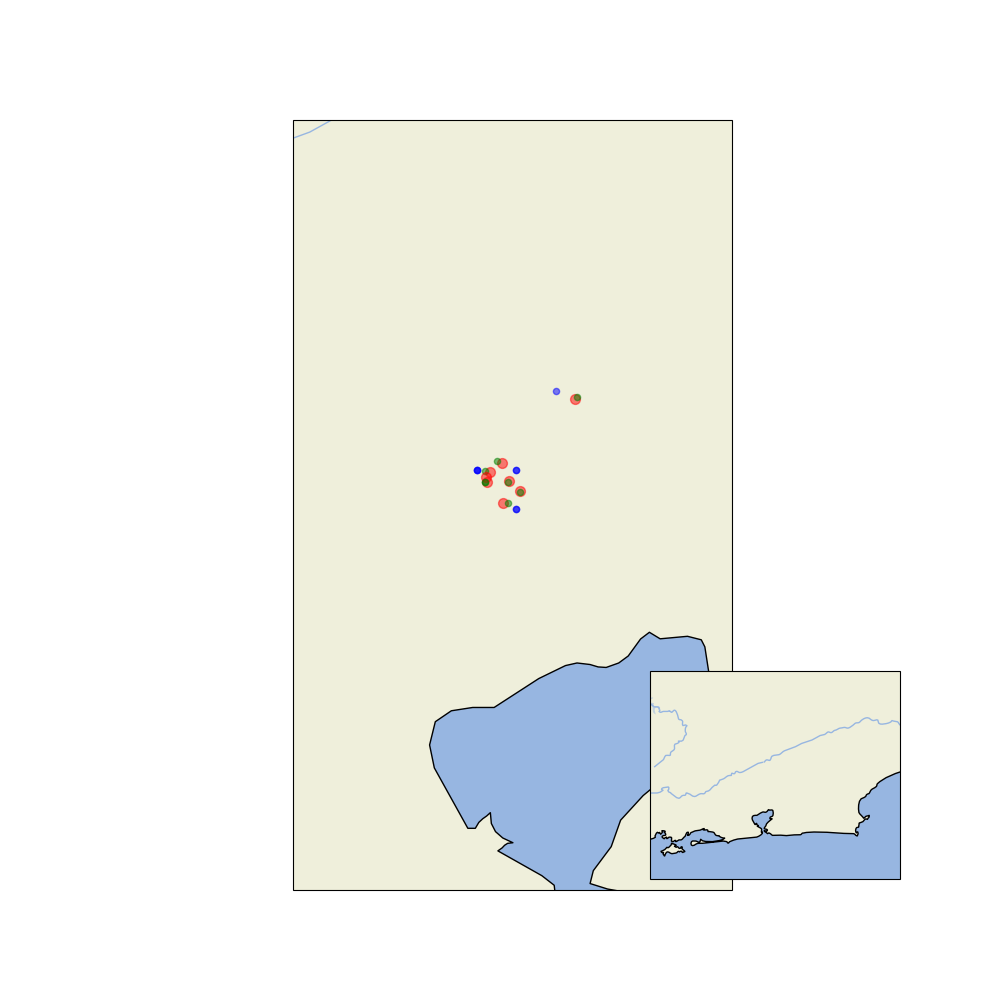
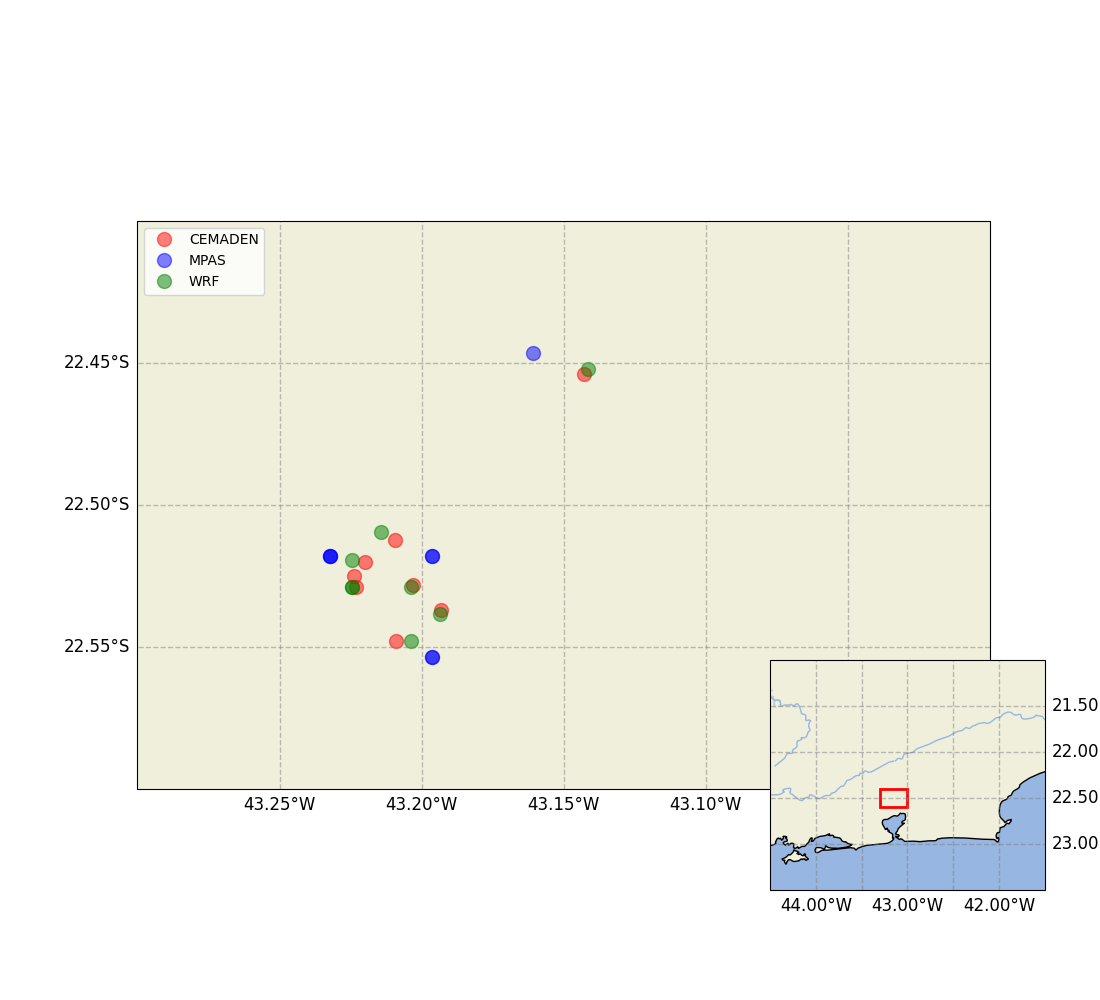
New version of station map

diff --git a/src_figures/export_model_stations.py b/src_figures/export_model_stations.py
@@ -1,0 +1,163 @@
+from glob import glob
+import pandas as pd
+import cartopy.crs as ccrs
+import matplotlib.ticker as mticker
+import cartopy.feature as cfeature
+import matplotlib.pyplot as plt
+import xarray as xr
+import numpy as np
+import matplotlib.patches as mpatches
+
+# Constants
+FILES_STATIONS_PATH = '../dados_CEMADEN/*csv'
+MPAS_DATASET_PATH = "../dados_MPAS/run.petropolis_250-4km.physics-test.microp_mp_thompson.cu_cu_ntiedtke/latlon.nc"
+WRF_DATASET_PATH = "../dados_WRF/PET1km_Thompson-Off.nc"
+MAIN_EXTENT = [-43.3, -43, -22.6, -22.4]
+RIO_EXTENT = [-44.5, -41.5, -23.5, -21]
+
+def find_nearest_idx(array, value):
+    """Find index of the nearest value in an array."""
+    array = np.asarray(array)
+    idx = (np.abs(array - value)).argmin()
+    return idx
+
+def load_dataset(file_path):
+    """Load dataset from a given file path."""
+    dataset = xr.open_dataset(file_path)
+    if 'lon' in dataset:
+        dataset['lon'] = ((dataset['lon'] + 180) % 360) - 180
+    return dataset
+
+def add_map_features(ax):
+    """Add common features to a Cartopy axis."""
+    ax.add_feature(cfeature.LAND)
+    ax.add_feature(cfeature.OCEAN)
+    ax.add_feature(cfeature.COASTLINE)
+    ax.add_feature(cfeature.BORDERS, linestyle=':')
+    ax.add_feature(cfeature.LAKES, alpha=0.5)
+    ax.add_feature(cfeature.RIVERS)
+
+def create_dataframe():
+    """Create an empty DataFrame for station data."""
+    columns = ['Station Name', 'Station Latitude', 'Station Longitude', 
+               'Nearest Model Latitude', 'Nearest Model Longitude']
+    return pd.DataFrame(columns=columns)
+
+def plot_station_locations(ax, data):
+    """Plot the station locations on the map."""
+    ax.scatter(data['Longitude'].unique(), data['Latitude'].unique(), s=100, color='red', alpha=0.5)
+
+def process_station_data(ax, data, mpas_lats, mpas_lons, wrf_lats, wrf_lons, df_mpas, df_wrf):
+    """Process each station and update DataFrames."""
+    for station_lat, station_lon in zip(data['Latitude'].unique(), data['Longitude'].unique()):
+        # Convert lat/lon to float and find nearest indices
+        station_lat = float(station_lat)
+        station_lon = float(station_lon)
+        nearest_lat_idx_mpas = find_nearest_idx(mpas_lats, station_lat)
+        nearest_lon_idx_mpas = find_nearest_idx(mpas_lons, station_lon)
+        nearest_lat_idx_wrf = find_nearest_idx(wrf_lats, station_lat)
+        nearest_lon_idx_wrf = find_nearest_idx(wrf_lons, station_lon)
+
+        # Plot nearest model grid point
+        nearest_lat_mpas = mpas_lats[nearest_lat_idx_mpas]
+        nearest_lon_mpas = mpas_lons[nearest_lon_idx_mpas]
+        nearest_lat_wrf = wrf_lats[nearest_lat_idx_wrf]
+        nearest_lon_wrf = wrf_lons[nearest_lon_idx_wrf]
+
+        ax.scatter(nearest_lon_mpas, nearest_lat_mpas, s=100, color='blue', alpha=0.5)
+        ax.scatter(nearest_lon_wrf, nearest_lat_wrf, s=100, color='green', alpha=0.5)
+
+        # Get station details
+        station_name = data.iloc[0]['Station']
+
+        # Add to DataFrame
+        df_mpas.loc[len(df_mpas)] = [station_name, station_lat, station_lon, nearest_lat_mpas, nearest_lon_mpas]
+        df_wrf.loc[len(df_wrf)] = [station_name, station_lat, station_lon, nearest_lat_wrf, nearest_lon_wrf]
+
+def add_inset_map(fig, extent):
+    """Add an inset map to the figure."""
+    ax_inset = fig.add_axes([0.7, 0.1, 0.25, 0.25], projection=ccrs.PlateCarree())
+    ax_inset.set_extent(extent)
+    add_map_features(ax_inset)
+    return ax_inset
+
+def add_rectangle_to_inset(ax_inset, main_extent):
+    """Add a rectangle to the inset map to highlight the main map area."""
+    rect_width = main_extent[1] - main_extent[0]
+    rect_height = main_extent[3] - main_extent[2]
+    rect = mpatches.Rectangle((main_extent[0], main_extent[2]), rect_width, rect_height,
+                              edgecolor='red', facecolor='none', lw=2, transform=ccrs.PlateCarree())
+    ax_inset.add_patch(rect)
+
+def add_gridlines(ax, x_interval, y_interval, main=True):
+    """Add gridlines to the map."""
+    gl = ax.gridlines(crs=ccrs.PlateCarree(), draw_labels=True,
+                      linewidth=1, color='gray', alpha=0.5, linestyle='--')
+    gl.xlabels_top = False
+    if main:
+        gl.ylabels_right = False
+    else:
+        gl.ylabels_left = False
+    gl.xlabel_style = {'size': 12, 'color': 'black'}
+    gl.ylabel_style = {'size': 12, 'color': 'black'}
+    gl.xformatter = mticker.FuncFormatter(lambda v, pos: f"{v:.2f}°E" if v >= 0 else f"{-v:.2f}°W")
+    gl.yformatter = mticker.FuncFormatter(lambda v, pos: f"{v:.2f}°N" if v >= 0 else f"{-v:.2f}°S")
+    gl.xlocator = mticker.FixedLocator(np.arange(-180, 181, x_interval))
+    gl.ylocator = mticker.FixedLocator(np.arange(-90, 91, y_interval))
+
+
+def main():
+    # Load datasets
+    files_stations = glob(FILES_STATIONS_PATH)
+    dummy_MPAS = load_dataset(MPAS_DATASET_PATH)
+    dummy_WRF = load_dataset(WRF_DATASET_PATH)
+
+    # Extract model grid points
+    mpas_lats = dummy_MPAS['latitude'].values
+    mpas_lons = dummy_MPAS['longitude'].values
+    wrf_lats = dummy_WRF['lat'].values
+    wrf_lons = dummy_WRF['lon'].values
+
+    # Initialize DataFrames
+    station_mpas_df = create_dataframe()
+    station_wrf_df = create_dataframe()
+
+    # Create main map
+    fig, ax = plt.subplots(figsize=(11, 10), subplot_kw={'projection': ccrs.PlateCarree()})
+    ax.set_extent(MAIN_EXTENT)
+    add_map_features(ax)
+    add_gridlines(ax, 0.05, 0.05)  # Adjust intervals here for the main map
+
+    # Create inset map for Rio de Janeiro
+    ax_inset = add_inset_map(fig, RIO_EXTENT)
+    add_rectangle_to_inset(ax_inset, MAIN_EXTENT)
+    add_gridlines(ax_inset, 0.5, 0.5, main=False)  # Adjust intervals here for the inset map
+
+    # Process each station file
+    for file in files_stations:
+        data = pd.read_csv(file, decimal=',').dropna()
+        data.columns = ['City', 'ID', 'State', 'Station', 'Latitude', 'Longitude', 'Date_Time', 'Precipitation']
+
+        plot_station_locations(ax, data)
+        process_station_data(ax, data, mpas_lats, mpas_lons, wrf_lats, wrf_lons, station_mpas_df, station_wrf_df)
+
+    # Initialize legend handles
+    cemaden_handle = plt.Line2D([], [], color='red', marker='o', linestyle='None',
+                                markersize=10, label='CEMADEN', alpha=0.5)
+    mpas_handle = plt.Line2D([], [], color='blue', marker='o', linestyle='None',
+                            markersize=10, label='MPAS', alpha=0.5)
+    wrf_handle = plt.Line2D([], [], color='green', marker='o', linestyle='None',
+                            markersize=10, label='WRF', alpha=0.5)
+
+    # Add the custom legend handles
+    ax.legend(handles=[cemaden_handle, mpas_handle, wrf_handle], loc='upper left')
+
+    # Save figure
+    plt.savefig('../figures/stations_map.png')
+
+    # Save model grid points closest to stations
+    station_mpas_df.to_csv('../dados_MPAS/stations.csv', index=False)
+    station_wrf_df.to_csv('../dados_WRF/stations.csv', index=False)
+
+if __name__ == "__main__":
+    main()
